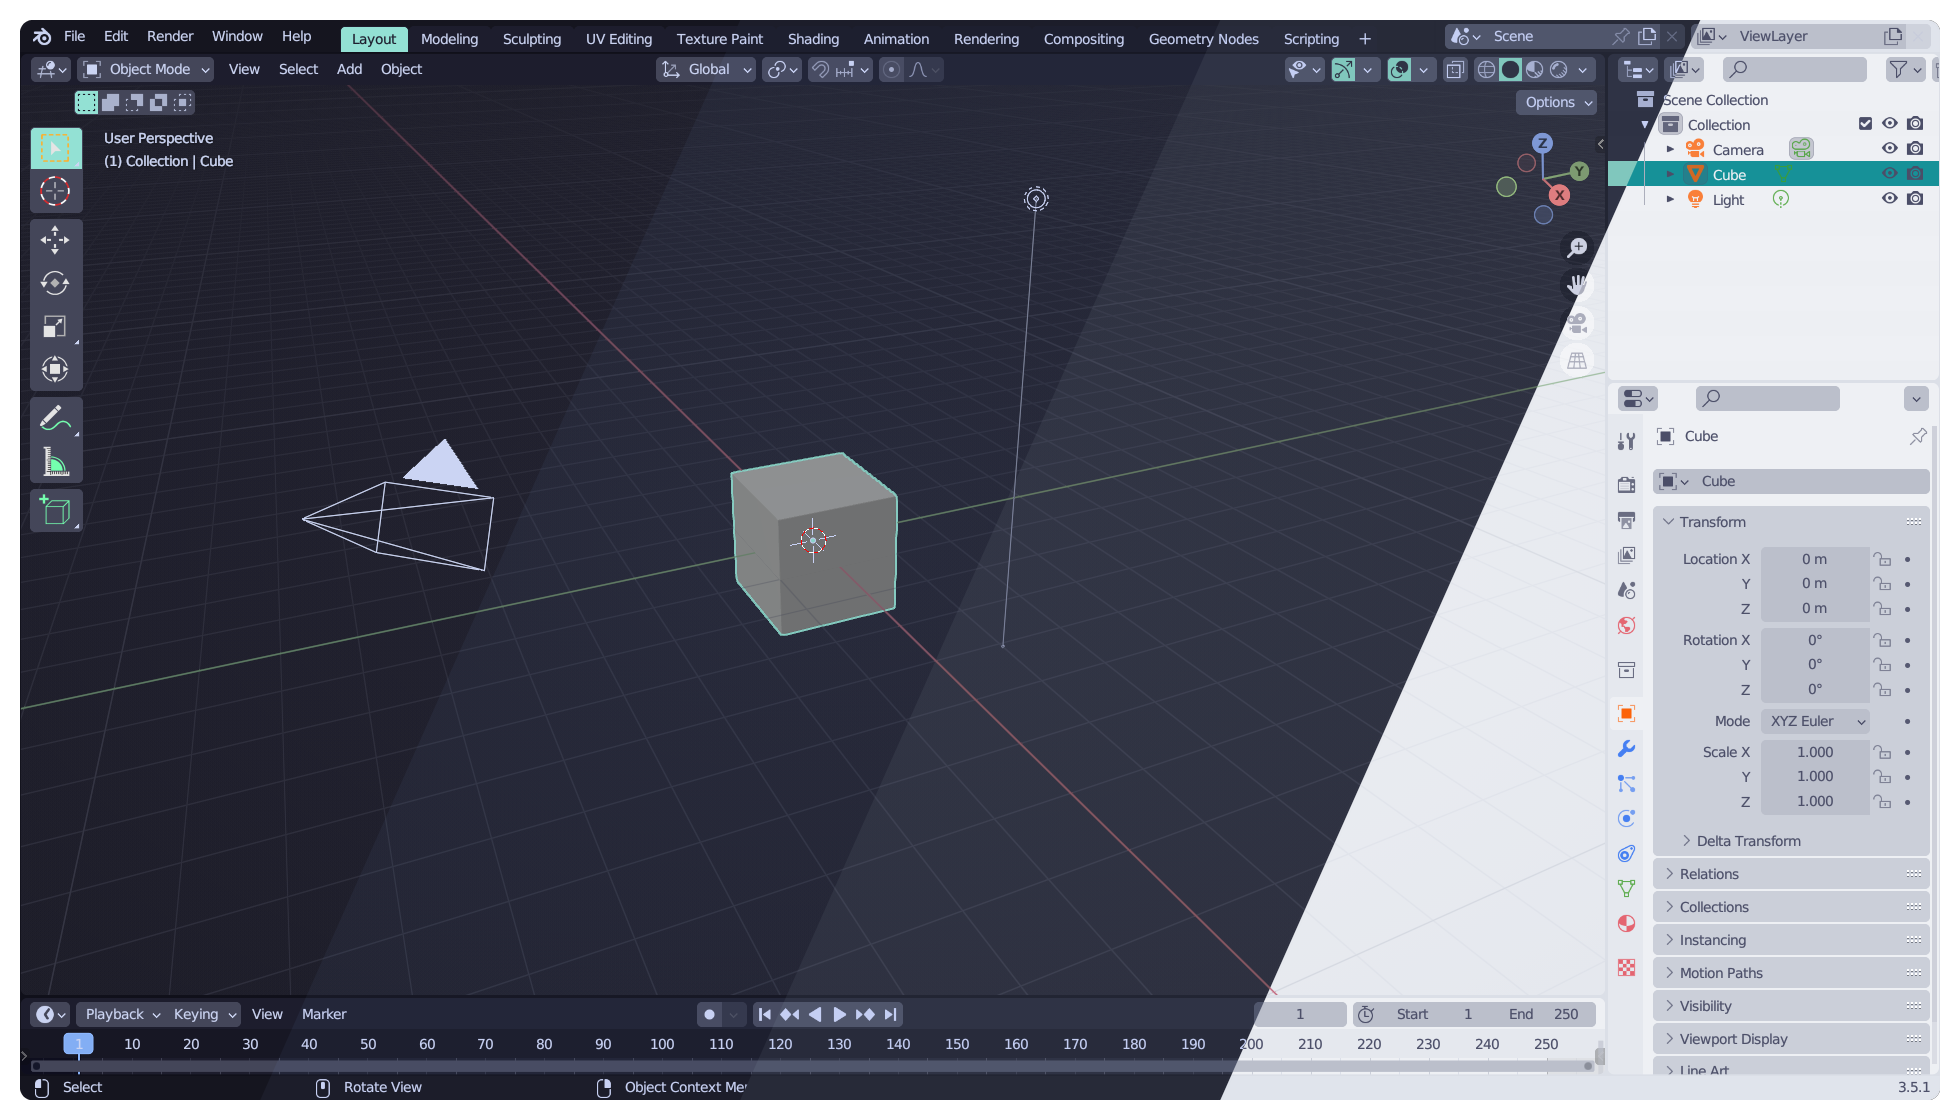
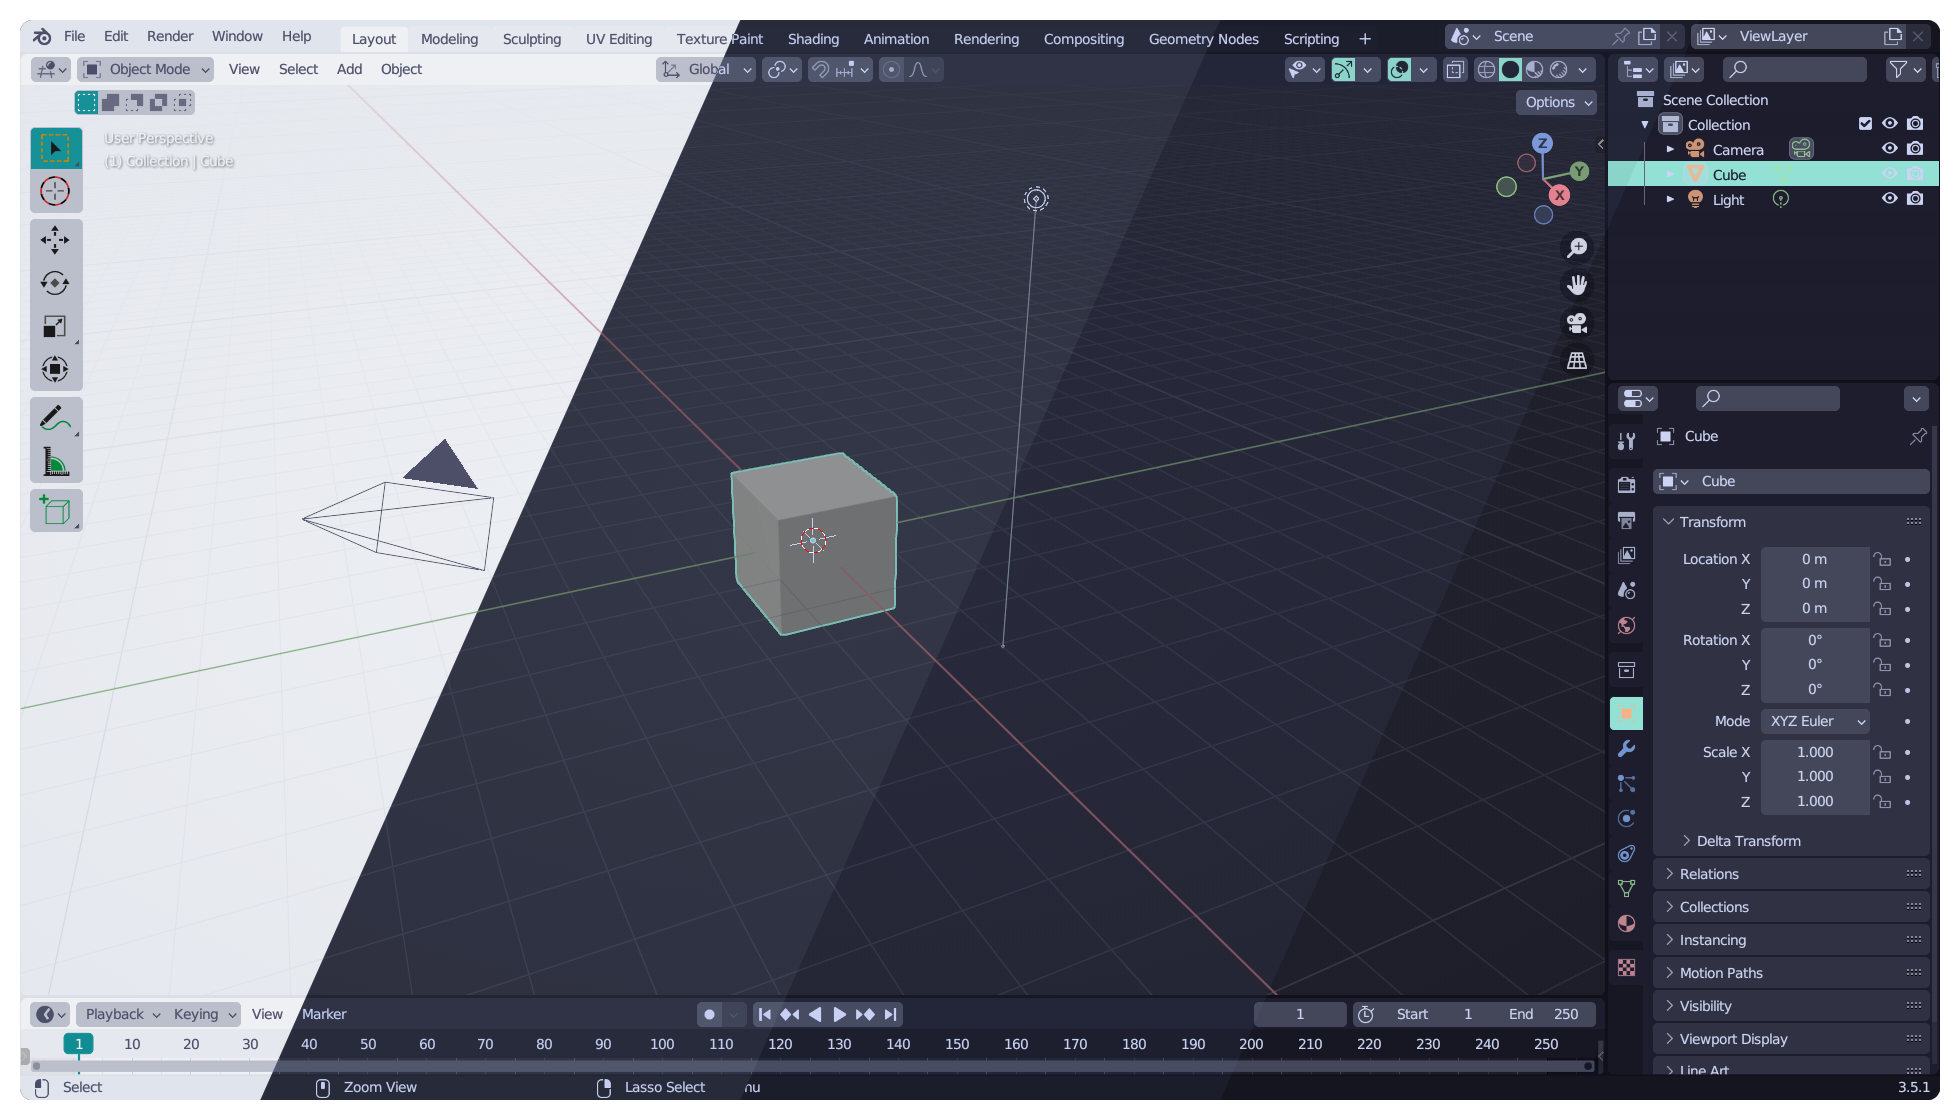
fix catwalks

diff --git a/README.md b/README.md
@@ -11,8 +11,22 @@
     <a href="https://github.com/ameknite/blender/contributors"><img src="https://img.shields.io/github/contributors/ameknite/blender?colorA=363a4f&colorB=a6da95&style=for-the-badge"></a>
 </p>
 
+## Contrast
+
 <p align="center">
     <img src="assets/catwalk_contrast.webp"/>
+</p>
+
+## Accent
+
+<p align="center">
+    <img src="assets/catwalk_accent.webp"/>
+</p>
+
+## Normal
+
+<p align="center">
+    <img src="assets/catwalk.webp"/>
 </p>
 
 ## Previews and accents
